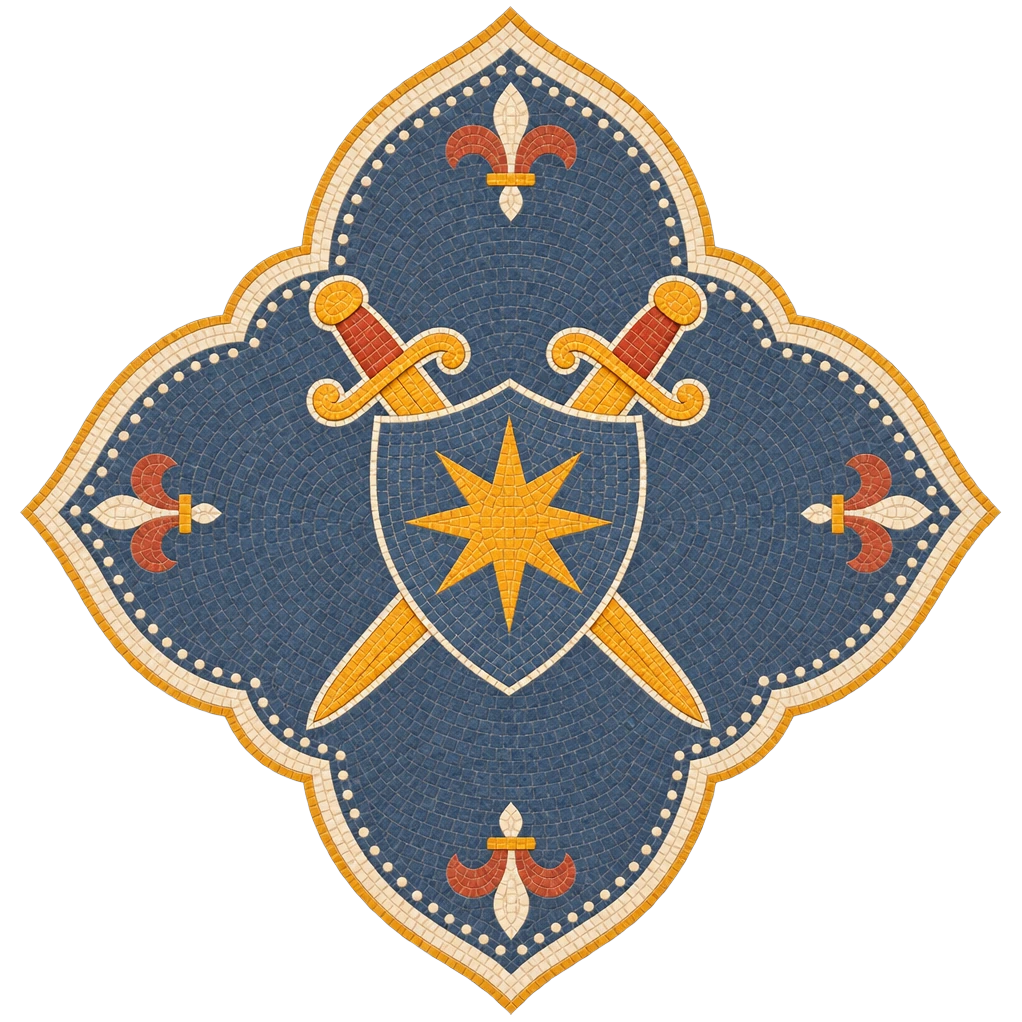
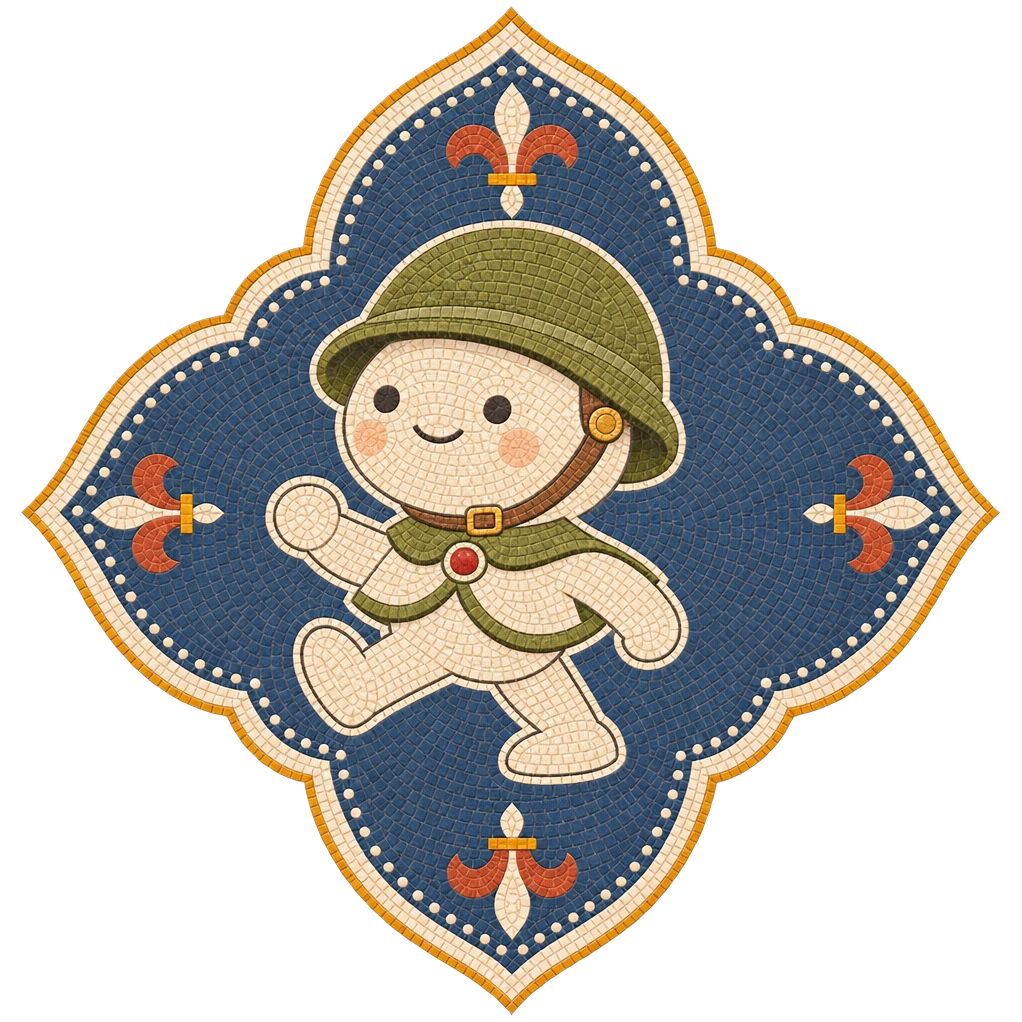
Cartouches in the plan, Vespi on two topics, the document check in the guides
- On the plan: «вот они сильно выбиваются из общей картины, нужны
  изменения». The plan step tiles and the questionnaire (plan and cabinet
  assessment) show the Galleria cartouches instead of the studio objects.
  Each step gets its topic's cartouche.
- «Где воинский учёт сделай Веспи с военным шлемом и марширующим»: Vespi
  marches in an olive helmet, inside the quatrefoil.
- «Где страховка нарисуй Веспи, который идёт к доктору в итальянской
  больнице»: Vespi walks to a doctor at a Renaissance hospital loggia,
  with no cross symbol.
- «Проверка документов это киллер-фича, её нужно активнее рекламировать».
  - A dark card with the document-check cartouche and a red button stands
    under the topics about a paper in hand: education, apostille,
    translation, DoV/CIMEA, family certificates, DSU, the visa and its
    documents page. It also stands under the /guides band.
  - The home action cell shows the same cartouche.
  - The copy says only what the home section already claims.

Claude-Session: https://claude.ai/code/session_01EJf3uoJW8TN46ucPCkbbdr

Changed region(s): [[0.0303, 0.0, 0.9706, 1.0]]

diff --git a/src/components/plan/planStepArt.ts b/src/components/plan/planStepArt.ts
@@ -1,27 +1,25 @@
-import { objectFrame } from "@/components/guides/guideArt";
+import { cartoucheFrame } from "@/components/guides/guideArt";
 
-/* Ярлык и вещь шага плана — по названию шага. Это только представление:
+/* Ярлык и картинка шага плана — по названию шага. Это только представление:
    данные плана (src/lib/planBuilder.ts) не меняются и остаются под защитой.
-   Вещи — тот же студийный набор, что в кабинете и справочнике
-   (design/illustrations/objects-2026-11-04.json). */
-const HEIGHTS: Record<string, number> = {
-  alarm: 357, books: 369, cap: 348, coins: 367, diploma: 357, envelope: 362, folder: 338,
-  insurance: 362, keys: 365, map: 358, military: 358, minors: 371, passport: 359,
-  "permesso-kit": 387, "stamp-pad": 371, "tax-card": 361, tests: 352, translation: 351,
-};
+   С 19 ноября у шагов не студийные предметы, а картуши с пола Галереи — тот
+   же набор, что в справочнике, визе и на главной (owner, на скриншоте плана:
+   «вот они сильно выбиваются из общей картины, нужны изменения»). Соседние
+   шаги не повторяют рамку (design/illustrations/cartouche-2026-11-19.json). */
+type Cartouche = "diploma" | "folder" | "tests" | "doc-check" | "alarm" | "coins" | "permesso-card" | "stamp-pad" | "passport" | "suitcase" | "minors" | "military" | "keys" | "route-map";
 
-const RULES: { test: RegExp; label: string; art: keyof typeof HEIGHTS }[] = [
+const RULES: { test: RegExp; label: string; art: Cartouche }[] = [
   { test: /магистратур|11-летн|NIS|IB \/ A-levels|колледж|год университета|квалификац/i, label: "Образование", art: "diploma" },
   { test: /DoV|CIMEA/, label: "Подтверждение документов", art: "folder" },
-  { test: /программу, тест и язык/i, label: "Программа", art: "books" },
-  { test: /язык и академические/i, label: "Требования вуза", art: "tests" },
+  { test: /программу, тест и язык/i, label: "Программа", art: "tests" },
+  { test: /язык и академические/i, label: "Требования вуза", art: "doc-check" },
   { test: /календарь/i, label: "Сроки", art: "alarm" },
-  { test: /DSU/, label: "Стипендия", art: "cap" },
-  { test: /статус в Италии/i, label: "Статус в Италии", art: "permesso-kit" },
-  { test: /консульство/i, label: "Консульство", art: "envelope" },
+  { test: /DSU/, label: "Стипендия", art: "coins" },
+  { test: /статус в Италии/i, label: "Статус в Италии", art: "permesso-card" },
+  { test: /консульство/i, label: "Консульство", art: "stamp-pad" },
   { test: /визу D/i, label: "Виза D", art: "passport" },
   { test: /финансирование/i, label: "Финансы", art: "coins" },
-  { test: /запас/i, label: "Бюджет", art: "coins" },
+  { test: /запас/i, label: "Бюджет", art: "suitcase" },
   { test: /18 лет/, label: "До 18 лет", art: "minors" },
   { test: /призыв/i, label: "Призыв", art: "military" },
   { test: /зачисление/i, label: "Зачисление", art: "keys" },
@@ -44,6 +42,6 @@ export function planStepPhase(title: string) {
 }
 
 export function planStepArt(title: string) {
-  const rule = RULES.find(item => item.test.test(title)) || { label: "Шаг маршрута", art: "map" as const };
-  return { label: rule.label, art: rule.art, frame: objectFrame(rule.art, HEIGHTS[rule.art]) };
+  const rule = RULES.find(item => item.test.test(title)) || { label: "Шаг маршрута", art: "route-map" as const };
+  return { label: rule.label, art: rule.art, frame: cartoucheFrame(rule.art) };
 }

diff --git a/src/components/guides/DocCheckPromo.tsx b/src/components/guides/DocCheckPromo.tsx
@@ -1,0 +1,39 @@
+/* eslint-disable @next/next/no-img-element -- Local cartouche renditions with explicit dimensions. */
+import { AppleButtonLink } from "@/components/apple/Button";
+import { cartoucheFrame } from "./guideArt";
+import styles from "./doc-check-promo.module.css";
+
+/* Проверка документов там, где документ уже в руках (owner, 19 Nov:
+   «проверка документов это киллер фича, её нужно активнее рекламировать»).
+   Тёмная карточка с картушем проверки стоит под обзором темы, где речь о
+   конкретной бумаге, и под каталогом гайдов. Только то, что правда и уже
+   сказано на главной (DocumentCheckFeature.tsx): ответ обычно за 10–30 секунд,
+   в любое время, сверка с требованиями вуза, DSU и визы на учебный год,
+   первая проверка бесплатно и без регистрации. */
+const DOCUMENTS: Record<string, string> = {
+  guides: "Готовишь документы? Проверь их за 10–30 секунд",
+  education: "Аттестат готов? Проверь его за 10–30 секунд",
+  apostille: "Поставил апостиль? Проверь документ за 10–30 секунд",
+  translation: "Перевод готов? Проверь его за 10–30 секунд",
+  cimea: "Собрал диплом и приложения? Проверь их за 10–30 секунд",
+  con: "Справки семьи готовы? Проверь их за 10–30 секунд",
+  iseeu: "Справки для DSU готовы? Проверь их за 10–30 секунд",
+  visa: "Выписка и документы для визы готовы? Проверь их за 10–30 секунд",
+};
+
+const ART = cartoucheFrame("doc-check");
+
+export function DocCheckPromo({ topic }: { topic: string }) {
+  const title = DOCUMENTS[topic];
+  if (!title) return null;
+  const titleId = `doc-check-promo-${topic}`;
+  return <aside className={styles.promo} aria-labelledby={titleId} data-doc-check-promo={topic}>
+    <img className={styles.art} src={ART.src} srcSet={ART.srcSet} sizes="(max-width: 640px) 104px, 140px" width={ART.width} height={ART.height} alt="" loading="lazy" decoding="async" draggable={false} />
+    <div className={styles.body}>
+      <p className={styles.kicker}>Проверка документов · 24/7</p>
+      <h2 id={titleId} className={styles.title}>{title}</h2>
+      <p className={styles.text}>ИИ сверит его с требованиями твоего вуза, DSU и визы на твой учебный год и скажет, что исправить. Первая проверка бесплатно и без регистрации.</p>
+      <AppleButtonLink href="/plan#document-check" className={styles.action} data-doc-check-promo-action>Проверить документ</AppleButtonLink>
+    </div>
+  </aside>;
+}

diff --git a/src/components/plan/questionArt.ts b/src/components/plan/questionArt.ts
@@ -1,23 +1,24 @@
-import { objectFrame } from "@/components/guides/guideArt";
+import { cartoucheFrame } from "@/components/guides/guideArt";
 
-/* Своя вещь у каждого вопроса анкеты, как картинка на плитке темы в
-   справочнике — из общего набора сайта (owner, 4 Nov: «общий стиль везде»;
-   design/illustrations/objects-2026-11-04.json). Декоративные (alt=""):
-   смысл несут вопрос и ответы. */
-const ART: Record<string, { name: string; height: number }> = {
-  intake: { name: "alarm", height: 357 },
-  education: { name: "diploma", height: 357 },
-  grades: { name: "tests", height: 352 },
-  goal: { name: "cap", height: 348 },
-  budget: { name: "coins", height: 367 },
-  field: { name: "books", height: 369 },
-  lang: { name: "translation", height: 351 },
-  age: { name: "minors", height: 371 },
-  residence: { name: "keys", height: 365 },
-  dsuRegion: { name: "envelope", height: 362 },
+/* Своя картинка у каждого вопроса анкеты, как у темы в справочнике. С 19
+   ноября это картуши с пола Галереи, общий набор справочника, визы и главной
+   (owner, на скриншоте плана: «вот они сильно выбиваются из общей картины,
+   нужны изменения»; design/illustrations/cartouche-2026-11-19.json).
+   Декоративные (alt=""): смысл несут вопрос и ответы. */
+const ART: Record<string, string> = {
+  intake: "alarm",
+  education: "diploma",
+  grades: "tests",
+  goal: "cap",
+  budget: "coins",
+  field: "route-map",
+  lang: "translation",
+  age: "minors",
+  residence: "passport",
+  dsuRegion: "family-docs",
 };
 
 export function questionArt(id: string) {
   const art = ART[id];
-  return art ? objectFrame(art.name, art.height) : undefined;
+  return art ? cartoucheFrame(art) : undefined;
 }

diff --git a/src/components/home/DocumentCheckFeature.tsx b/src/components/home/DocumentCheckFeature.tsx
@@ -1,7 +1,11 @@
+/* eslint-disable @next/next/no-img-element -- Local cartouche renditions with explicit dimensions. */
 import { AppleButtonLink } from "@/components/apple/Button";
 import { Bento, BentoCell, BentoStat, bento } from "@/components/ui/Bento";
 import { PRICE_MAIN, fmtPrice, priceLabel } from "@/data/pricing";
+import { cartoucheFrame } from "@/components/guides/guideArt";
 import styles from "./document-check-feature.module.css";
+
+const CTA_ART = cartoucheFrame("doc-check");
 
 /* Проверка документов — главная фишка (owner, 13 Nov: «проверка документов —
    это такая киллер-фича… в любое время суток, в неограниченное количество…
@@ -66,6 +70,10 @@ export function DocumentCheckFeature({ compact = false }: { compact?: boolean })
           <p className={bento.heading}>Проверь один документ бесплатно</p>
           <p className={bento.text}>Без регистрации. Проверка помогает не потерять время на ошибках; решение о приёме принимает вуз.</p>
         </div>
+        {/* Owner, 19 Nov: «проверка документов это киллер фича, её нужно
+            активнее рекламировать» — the cell gets the document-check cartouche
+            instead of an empty dotted field. */}
+        <img className={styles.ctaArt} src={CTA_ART.src} srcSet={CTA_ART.srcSet} sizes="(max-width: 640px) 120px, 160px" width={CTA_ART.width} height={CTA_ART.height} alt="" loading="lazy" decoding="async" draggable={false} data-document-check-art />
         <div className={bento.actions}><AppleButtonLink href="/plan#document-check">Проверить документ</AppleButtonLink></div>
       </BentoCell>}
     </Bento>

diff --git a/src/components/guides/doc-check-promo.module.css b/src/components/guides/doc-check-promo.module.css
@@ -1,0 +1,21 @@
+/* Проверка документов в гайдах (owner, 19 Nov). Тёмная полоса и картуш —
+   как у каталога тем: карточка заметна среди светлых ячеек, но говорит тем
+   же языком. Кнопка — главная, малиновая. */
+.promo { display:grid; grid-template-columns:auto minmax(0, 1fr); align-items:center; gap:28px; margin:28px 0 8px; padding:28px 32px; border-radius:28px; background:#2A2420; color:#FAF6EE; }
+.art { display:block; width:140px; height:auto; }
+.body { display:grid; justify-items:start; gap:8px; min-width:0; }
+.kicker { margin:0; color:#E8B4A0; font-size:13px; font-weight:600; letter-spacing:.02em; }
+.title { margin:0; max-width:24ch; font-size:clamp(22px, 2.4vw, 28px); font-weight:600; line-height:1.12; letter-spacing:-.025em; text-wrap:balance; }
+.text { margin:0; max-width:58ch; color:#CFC6BA; font-size:15px; line-height:1.5; text-wrap:pretty; }
+/* The plan's red step pill (plan-step-tiles.module.css): a black button
+   disappeared on the dark card. */
+.promo .action { margin-top:10px; background:#B83A27; color:#FAF6EE; }
+@media (hover:hover) and (pointer:fine) { .promo .action:hover { background:#A33421; } }
+
+@media (max-width:640px) {
+  .promo { grid-template-columns:1fr; justify-items:center; gap:16px; padding:24px 20px 26px; text-align:center; }
+  .art { width:104px; }
+  .body { justify-items:center; }
+  .action { min-height:44px; }
+}
+@media (forced-colors:active) { .promo { border:1px solid CanvasText; } }

diff --git a/src/components/guides/GuidePage.tsx b/src/components/guides/GuidePage.tsx
@@ -1,4 +1,5 @@
 /* eslint-disable @next/next/no-img-element -- Local riso art with explicit dimensions. */
+import { DocCheckPromo } from "./DocCheckPromo";
 import type { ReactNode } from "react";
 import Link from "next/link";
 import { MarketingLayout } from "@/components/marketing/MarketingLayout";
@@ -65,6 +66,9 @@ export function GuideTopicPage({ id, visaPart }: { id: string; visaPart?: VisaPa
       {/* Owner, 12 Nov (Lamossa Studio): facts, the next action, the note and
           the sources as one bento above the steps (GuideOverview.tsx). */}
       {!part && (id === "visa" ? <VisaOverview guide={guide} note={note} /> : <GuideTopicOverview guide={guide} note={note} />)}
+      {/* Owner, 19 Nov: «проверка документов это киллер фича, её нужно активнее
+          рекламировать» — where the topic is about a paper the reader holds. */}
+      {(!part || visaPart === "documents") && <DocCheckPromo topic={id} />}
       <div className={ui.readingBody}>
         {id === "visa" ? <>
           {part && <VisaSection part={visaPart} />}

diff --git a/src/app/guides/page.tsx b/src/app/guides/page.tsx
@@ -2,6 +2,7 @@ import paper from "@/components/marketing/public-paper.module.css";
 import Link from "next/link";
 import { GuideFrame, GuideReviewed } from "@/components/guides/GuidePage";
 import { GuideDirectory } from "@/components/guides/GuideDirectory";
+import { DocCheckPromo } from "@/components/guides/DocCheckPromo";
 import { GuideRoad } from "@/components/guides/GuideRoad";
 import { guidesRoad } from "@/components/guides/guideRoads";
 import { GuideHelperLink, GuideReadingContext } from "@/components/guides/GuideReadingContext";
@@ -18,6 +19,8 @@ export default function GuidesPage() {
     </header>
     </div>
     <GuideDirectory />
+    {/* Owner, 19 Nov: the document check, advertised more actively. */}
+    <div className={ui.indexPromo}><DocCheckPromo topic="guides" /></div>
     {/* Owner, 10 Nov: the whole guide as one road, the same format as the cabinet's path. */}
     <div className={ui.indexRoad}><GuideRoad id="guides" heading="Весь путь по гайдам и визе" stations={guidesRoad()} /></div>
     <div className={ui.indexFooter}>

diff --git a/src/components/guides/guide-pages.module.css b/src/components/guides/guide-pages.module.css
@@ -87,6 +87,8 @@
 @media(max-width:700px) { .fundsLayout { grid-template-columns:minmax(0,1fr); gap:12px; } .fundsArt { order:-1; width:140px; } }
 /* Дорога на главной гайдов (owner, 10 Nov): после галереи тем, по колонке. */
 .indexRoad { max-width:1216px; margin:48px auto 0; padding-inline:max(0px, calc((100% - 1216px) / 2)); }
+/* Owner, 19 Nov: the document check under the topic band (DocCheckPromo). */
+.indexPromo { max-width:1216px; margin:40px auto 0; padding-inline:max(0px, calc((100% - 1216px) / 2)); }
 /* Один отступ на весь сайт (owner, 10 Nov: «по всем неровностям… по всему
    сайту»): край контента стоит там же, где логотип в шапке — 32px, а шире
    1280px по колонке 1216px; 24px на планшете (768–899); 20px на телефоне. */

diff --git a/src/components/home/document-check-feature.module.css b/src/components/home/document-check-feature.module.css
@@ -31,6 +31,9 @@
 }
 /* Цена агентства под строкой договора: тот же тихий цвет, цифры читаются. */
 .agencyPrice { display: block; margin-top: 2px; color: #57514B; font-weight: 500; font-variant-numeric: tabular-nums; }
+/* The cartouche of the check fills the action cell (owner, 19 Nov). */
+.ctaArt { display:block; width:160px; height:auto; margin:8px auto 4px; }
+@media (max-width:640px) { .ctaArt { width:120px; } }
 .srOnly { position: absolute; width: 1px; height: 1px; overflow: hidden; clip-path: inset(50%); white-space: nowrap; }
 
 @media (max-width: 899px) { .section { padding: 56px 24px 64px; } .compact { padding: 32px 0 8px; } }

diff --git a/src/components/guides/cartoucheFiles.ts b/src/components/guides/cartoucheFiles.ts
@@ -11,9 +11,9 @@ export const CARTOUCHE_FILES: Record<string, string> = {
   "doc-check": "doc-check.dd9cb43a",
   "family-docs": "family-docs.103c51b0",
   "folder": "folder.9157f29b",
-  "insurance": "insurance.63b3840b",
+  "insurance": "insurance.744ae89e",
   "keys": "keys.ace9e925",
-  "military": "military.9e61c44e",
+  "military": "military.30160013",
   "minors": "minors.daa9b2ef",
   "passport": "passport.01a982c0",
   "permesso-card": "permesso-card.cadce89c",

diff --git a/DESIGN.md b/DESIGN.md
@@ -2275,3 +2275,48 @@ the right edge, text over text, text crossed by the road, tap targets under
   the map's approved revision; the Modulo 1 paper fields keep the paper's
   geometry; the gallery's dots belong to the carousel, which is being
   changed elsewhere.
+
+## Plan steps and questionnaire in cartouches · 19 November 2026
+
+On a screenshot of the plan: «вот они сильно выбиваются из общей картины,
+нужны изменения». The studio objects in the plan step tiles and in the
+questionnaire were the last ones beside the Galleria cartouches.
+
+- **Plan steps.** Each step shows the cartouche of its topic: education the
+  diploma, DoV/CIMEA the verified diploma, the programme the book, the
+  university requirements the document check, the calendar the clock, DSU
+  and finances the Vespi coin, the status in Italy the permesso card, the
+  consulate the seal, visa D the passport of Kazakhstan, the reserve until
+  the grant the suitcase, under 18 the signed scroll, conscription the
+  shield, enrolment the keys.
+- **Questionnaire.** It uses the same set: the clock, the diploma, the book,
+  the cap, the coin, the route map, the scrolls of translation, the signed
+  scroll, the passport and the family documents. The cabinet's assessment
+  uses it too.
+- **Unchanged.** The cabinet road keeps its marks and 3D landmarks («вот
+  этот стайл именно на карте прогресса норм»).
+
+## Vespi on two topics and the document check in the guides · 19 November 2026
+
+- **Conscription.** «Где воинский учёт сделай Веспи с военным шлемом и
+  марширующим». The quatrefoil keeps its frame. In it Vespi marches in
+  profile in a round olive helmet, with a high step and no weapon.
+- **Insurance.** «Нарисуй Веспи, который идёт к доктору в итальянской
+  больнице». The acanthus cartouche shows Vespi walking with a paper to a
+  doctor at the loggia of a Renaissance hospital. The round arches,
+  terracotta roof and blue roundels follow the Ospedale degli Innocenti.
+  There is no cross symbol.
+- **The document check, advertised in the guides.** «Проверка документов
+  это киллер-фича, её нужно активнее рекламировать».
+  - A dark card with the document-check cartouche stands under the
+    overview of every topic about a paper the reader holds: education,
+    apostille, translation, DoV/CIMEA, family certificates, DSU, the visa
+    and its documents page. It also stands under the topic band of
+    /guides.
+  - The title names the paper: «Поставил апостиль? Проверь документ за
+    10–30 секунд».
+  - The text says only what the home section already says: what is checked
+    against, and that the first check is free with no sign-up. The red
+    button leads to /plan#document-check.
+  - On the home page, the action cell «Проверь один документ бесплатно»
+    shows the same cartouche instead of an empty dotted field.
